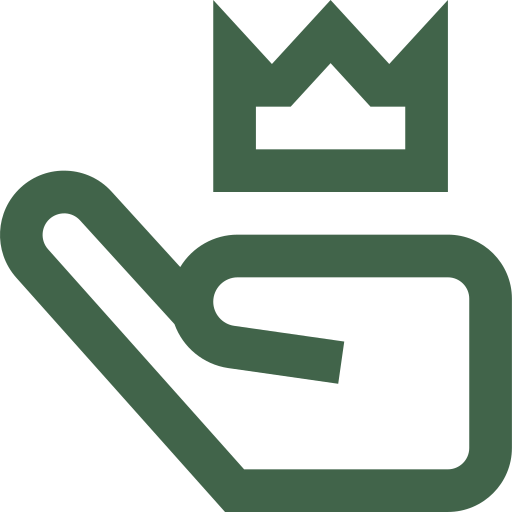
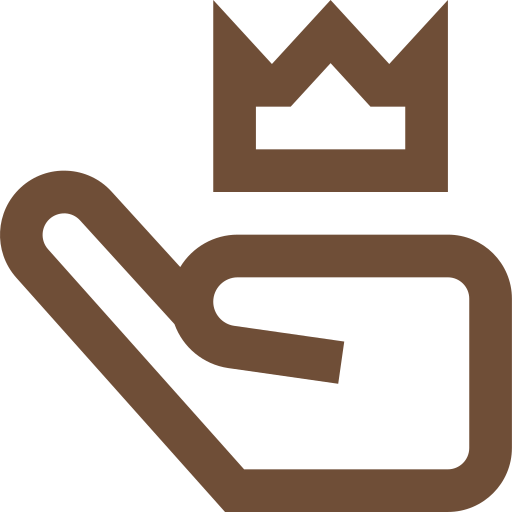
[0604: Styling Changes]

diff --git a/FRONT/src/CONSTs/GlobalColorManager.js b/FRONT/src/CONSTs/GlobalColorManager.js
@@ -14,8 +14,8 @@ export const GLOABL_COLOR_MANAGER = () => {
     deep_hidden_forground: "#E1D7C6",
     background: "#E7DFD1",
 
-    player_1_checker: "#41644A",
-    player_2_checker: "#E86A33",
+    player_1_checker: "#6F4E37",
+    player_2_checker: "#C39898",
   };
 
   return { DARK_THEME: DARK_THEME, LIGHT_THEME: LIGHT_THEME };
